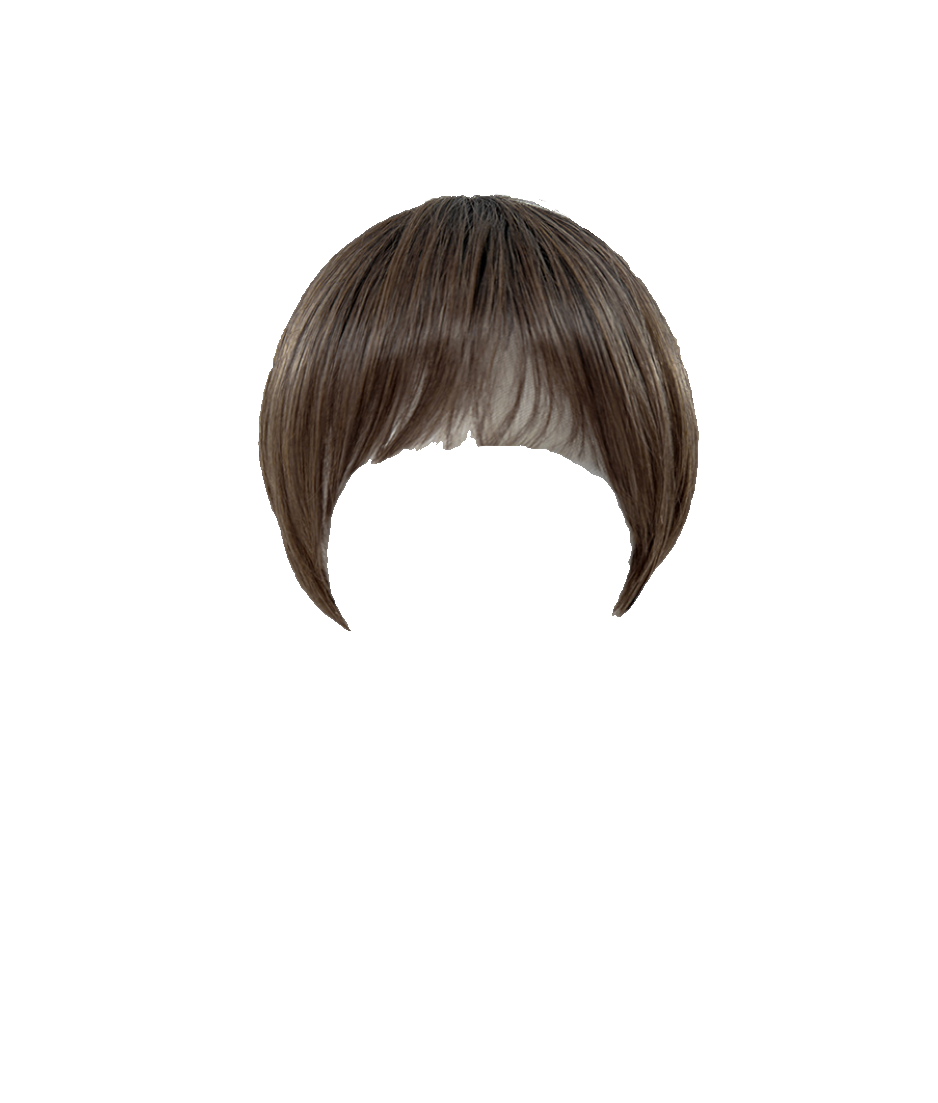
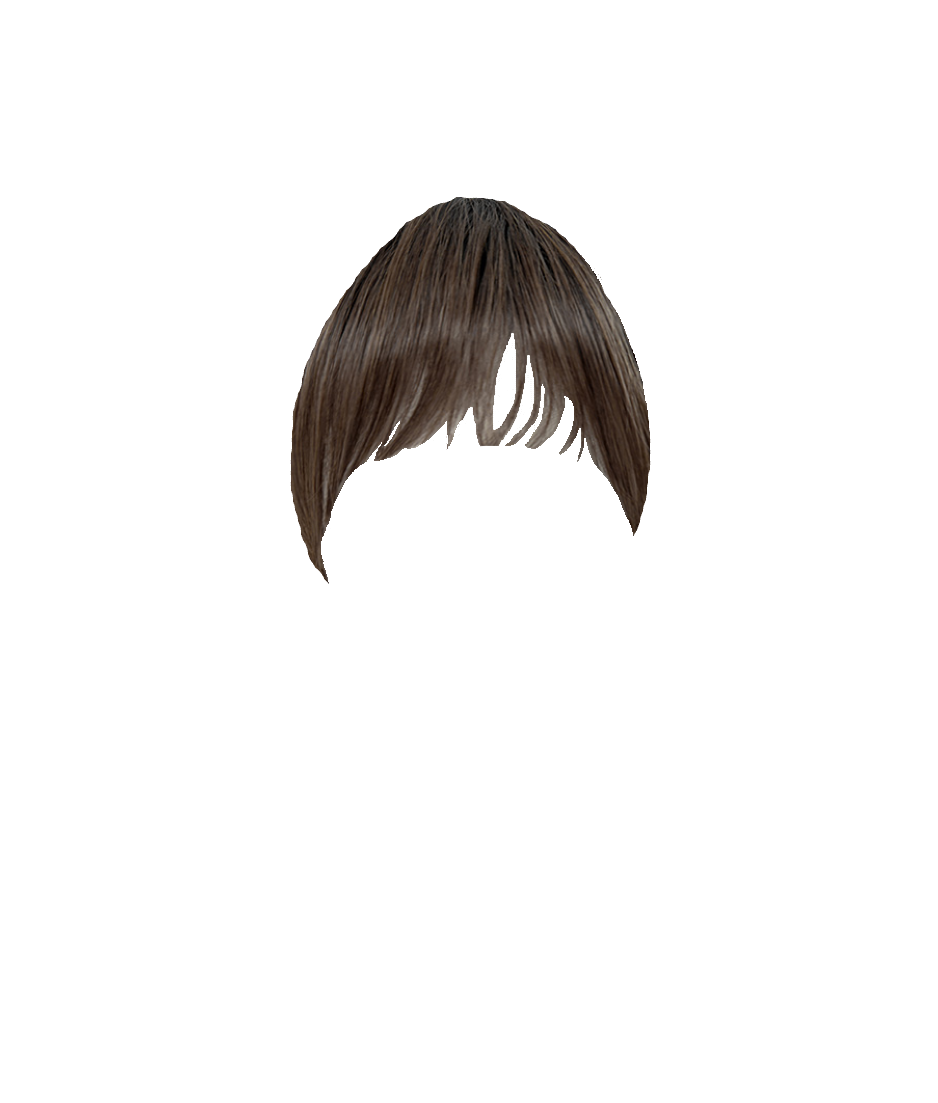
songi changes custom code.

diff --git a/hreview/hyuzi/templates/hyuzi/custom.html b/hreview/hyuzi/templates/hyuzi/custom.html
@@ -7,14 +7,20 @@
     .drag {
         position:relative;
         cursor:hand;
-        z-index: 100;
     }
 
+    .back {
+        z-index: 0;
+    }
     .bang {
         z-index: 300;
     }
     .side {
         z-index: 200;
+    }
+    .face {
+        position:relative;
+        z-index: 100;
     }
     .nav-pieces {
         border: 2px solid #e9e0d1;
@@ -88,13 +94,13 @@ dragobject.initialize()
 function selectFace(obj) {       
     switch (obj) {
         case 'circle':
-            document.getElementById("result").innerHTML = "<img src='/static/img/circle.png' id='circle' width='300px'>";
+            document.getElementById("result").innerHTML = "<img class='face' src='/static/img/circle.png' id='circle' width='300px'>";
                 break;
         case 'rectangle': 
-            document.getElementById("result").innerHTML = "<img src='/static/img/rectangle.png' id='rectangle' width='300px'>";
+            document.getElementById("result").innerHTML = "<img class='face' src='/static/img/rectangle.png' id='rectangle' width='300px'>";
                 break;
         case 'oval': 
-            document.getElementById("result").innerHTML = "<img src='/static/img/oval.png' id='oval' width='300px'>";
+            document.getElementById("result").innerHTML = "<img class='face' src='/static/img/oval.png' id='oval' width='300px'>";
                 break;
         default: 
             document.getElementById("result").innerHTML = ""; 
@@ -103,9 +109,9 @@ function selectFace(obj) {
 }
 
 // pieces image store
-    var black_bang = ["../../static/img/bang1.png", "../../static/img/bang2.png"];
-    var black_side = ["../../static/img/bang3.png"];
-    var black_back = ["../../static/img/bang4.png"];
+    var black_bang = ["../../static/img/bang1.png", "../../static/img/bang2.png","../../static/img/bang3.png","../../static/img/bang4.png","../../static/img/bang5.png","../../static/img/bang6.png"];
+    var black_side = ["../../static/img/side1.png","../../static/img/side2.png","../../static/img/side3.png","../../static/img/side4.png","../../static/img/side5.png","../../static/img/side6.png"];
+    var black_back = ["../../static/img/back1.png","../../static/img/back2.png","../../static/img/back3.png","../../static/img/back4.png","../../static/img/back5.png","../../static/img/back6.png","../../static/img/back7.png"];
     
     var pink_bang =["../../static/img/long1.jpg", "../../static/img/long2.jpg"];
     var pink_side = ["../../static/img/short1.jpg"];
@@ -195,7 +201,7 @@ function selectFace(obj) {
     }
 </script>
 
-<div class="text-center" id="result"><img src='/static/img/oval.png' id='oval' width='300px'></div>
+<div class="text-center" id="result"><img class='face' src='/static/img/oval.png' id='oval' width='300px'></div>
 
 <nav class="nav-pieces navbar custom-nav navbar-expand-lg" style="clear: both;">
   <button class="navbar-toggler" type="button" data-toggle="collapse" data-target="#navbarTogglerDemo01" aria-controls="navbarTogglerDemo01" aria-expanded="false" aria-label="Toggle navigation">
